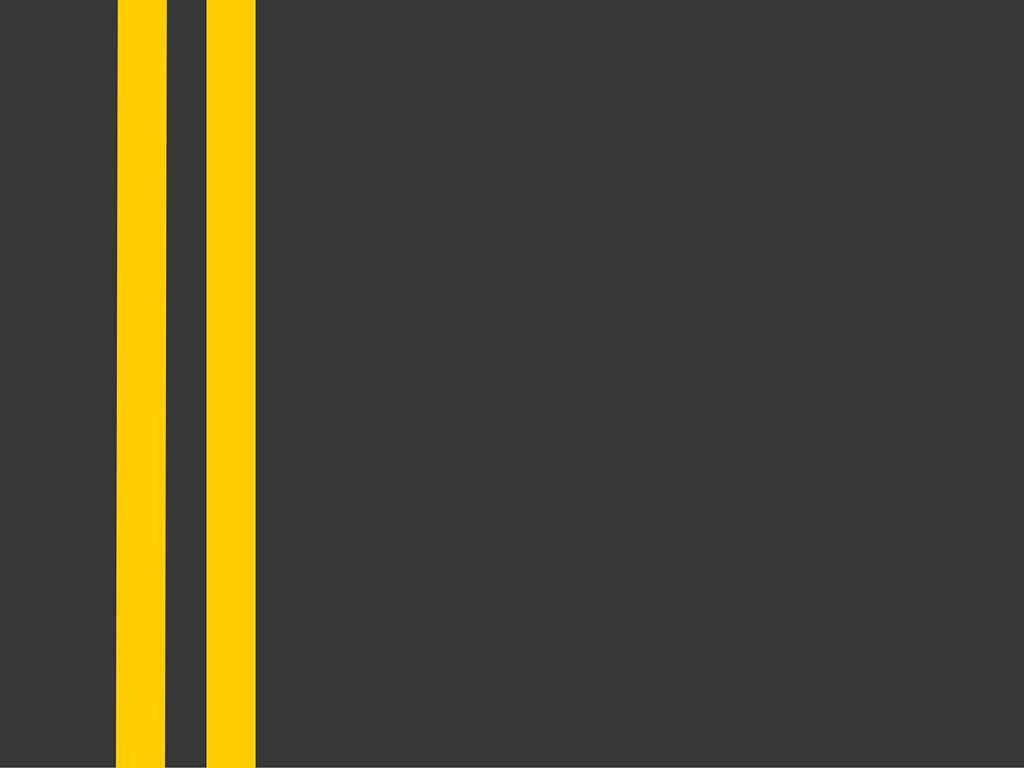
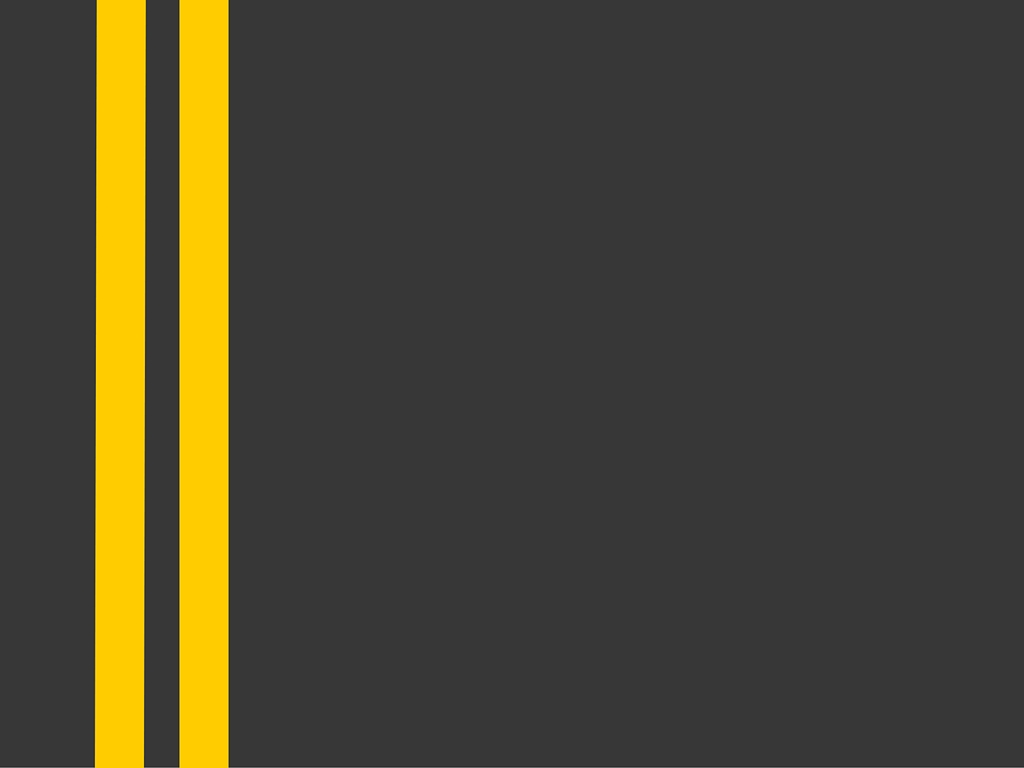
finished map page

Changed region(s): [[0.0938, 0.0, 0.25, 1.0]]

diff --git a/app/views/withMap.html b/app/views/withMap.html
@@ -17,19 +17,8 @@
     <!-- Google Fonts-->
     <link href='https://fonts.googleapis.com/css?family=Satisfy|Oswald' rel='stylesheet' type='text/css'>
 
-    <!-- Custom CSS -->
-    <link href="../css/withMapStyle.css" rel="stylesheet">
-
     <!-- Favicon -->
-    <link rel="shortcut icon" href="../img/favicon.ico" type="image/x-icon" />
-
-
-    <style>
-    body {
-        padding-top: 51px;
-        /* Required padding for .navbar-fixed-top. Remove if using .navbar-static-top. Change if height of navigation changes. */
-    }
-    </style>
+    <link rel="shortcut icon" href="../img/favicon2.png" type="image/x-icon" />
 
     <!-- HTML5 Shim and Respond.js IE8 support of HTML5 elements and media queries -->
     <!-- WARNING: Respond.js doesn't work if you view the page via file:// -->
@@ -41,46 +30,58 @@
 <head>
 
 <body>
+
+    <!-- Custom CSS -->
+    <link href="../css/withMapStyle.css" rel="stylesheet">
+
     <!-- Nav Bar -->
      <nav class="navbar navbar-inverse navbar-fixed-top">
       <div class="container-fluid">
         <div class="navbar-header">
           
-          <a class="navbar-brand title" href="#">Daytripr</a>
+          <a class="navbar-brand title"><img style="max-width:100px; margin-top: -7px;" src="../img/logoWhite.png"></a>
         </div>
       </div>
     </nav>
 
     <!-- Page Content -->
-    <div class="container">
-        <div class="col-lg-3">
-            <div class="col-lg-12 little-space">
-                <p class="subtitle">what do you need?</p>
+    <div class="container no-margin">
+        <div class="row">
+            <div class="col-lg-3">
+                <div class="col-lg-12 little-space">
+                    <p class="text-center title">what do you need?</p>
+                </div>
+                <div class="form-group col-lg-5">
+                    <select class="selectpicker">
+                    <option>Food</option>
+                    <option>Fun</option>
+                    <option>Fotel</option>
+                    </select>                
+                </div>
+                <div class="form-group col-lg-2">
+                    <label class="subtitle">at</label>
+                </div>
+                <div class="form-group col-lg-5">
+                    <input id="time" class="form-control input-group-lg reg_name" type="text" name="stoptime"/>
+                </div>
+                <div class="col-lg-12">
+                    <p class="text-center title">need more?</p>
+                </div>
+                <div class="col-lg-12 text-center">
+                    <button type="button" class="btn btn-default">
+                        <span class="glyphicon glyphicon-chevron-down"></span>
+                    </button>
+                </div>
             </div>
-            <div class="form-group col-lg-5">
-                <input id="location" class="form-control input-group-lg reg_name" type="text" name="pitstop"/>
-            </div>
-            <div class="form-group col-lg-2">
-                <label class="subtitle">at</label>
-            </div>
-            <div class="form-group col-lg-5">
-                <input id="time" class="form-control input-group-lg reg_name" type="text" name="stoptime"/>
-            </div>
-            <div class="col-lg-12">
-                <p class="subtitle">need more?</p>
-                <button type="button" class="btn btn-default">
-                    <span class="glyphicon glyphicon-chevron-down"></span>
-                </button>
-            </div>
-        </div>
         <div class="col-lg-9">
             <!--MAP hooray-->
             <img src="../img/map.jpg" alt="road" height="600" width="900">
         </div>
     </div>
+    </div>
     <!-- /.container -->
     <div class="col-lg-12">
-            <button type="button" class="btn btn-default btn-fixed">let's go!</button>
+            <button type="button" class="btn btn-default btn-fixed btn-yellow">let's go!</button>
      </div>
     <!-- jQuery Version 1.11.1 -->
     <script src="../js/jquery.js"></script>

diff --git a/app/views/index.html b/app/views/index.html
@@ -1,4 +1,3 @@
-
 <!DOCTYPE html>
 <html lang="en">
 
@@ -18,19 +17,8 @@
     <!-- Google Fonts-->
     <link href='https://fonts.googleapis.com/css?family=Satisfy|Oswald' rel='stylesheet' type='text/css'>
 
-    <!-- Custom CSS -->
-    <link href="../css/indexStyle.css" rel="stylesheet">
-
     <!-- Favicon -->
-    <link rel="shortcut icon" href="../img/favicon.ico" type="image/x-icon" />
-
-
-    <style>
-    body {
-        padding-top: 70px;
-        /* Required padding for .navbar-fixed-top. Remove if using .navbar-static-top. Change if height of navigation changes. */
-    }
-    </style>
+    <link rel="shortcut icon" href="../img/favicon2.png" type="image/x-icon" />
 
     <!-- HTML5 Shim and Respond.js IE8 support of HTML5 elements and media queries -->
     <!-- WARNING: Respond.js doesn't work if you view the page via file:// -->
@@ -42,6 +30,9 @@
 <head>
 
 <body>
+    <!-- Custom CSS -->
+    <link href="../css/indexStyle.css" rel="stylesheet">
+
     <!-- Page Content -->
     <div class="container">
 

diff --git a/app/css/withMapStyle.css b/app/css/withMapStyle.css
@@ -1,3 +1,11 @@
+.navbar-brand{
+    padding-left: 50px;
+}
+
+.navbar .navbar-brand {
+    color: white;
+}
+
 .little-space {
     margin-top:25px;
 }
@@ -15,13 +23,20 @@ h1, h2, h3 {
 }
 
 body {
+    padding-top: 51px;
     font-family: 'Satisfy', cursive;
-    background-color:#383838;
+    background: #383838;
     color: white;
+}
+
+.no-margin {
+    margin: 0;
+
 }
 
 .title {
     font-family: 'Oswald', sans-serif;
+    font-size: 22px;
 }
 
 .subtitle {
@@ -36,5 +51,10 @@ h1 {
     font-size: 24px;
     position: fixed; 
     bottom: 100px;
-    left: 140px;
+    left: 95px;
+}
+
+.btn-yellow:hover{
+    transition: background-color .7s ease;
+    background-color: #ffcc00; 
 }

diff --git a/app/css/indexStyle.css b/app/css/indexStyle.css
@@ -16,6 +16,7 @@ h1, h2, h3 {
 }
 
 body {
+    padding-top: 70px;
     font-family: 'Satisfy', cursive;
     background: url("../img/asphalt.jpg") no-repeat center center fixed;
     -webkit-background-size: cover;
@@ -25,11 +26,18 @@ body {
     color: white;
 }
 
+.center {
+    margin: 0 auto;
+}
 
 .subtitle {
-    font-size: 24px;
+    font-size: 28px;
 }
 
 h1 {
-    font-size: 56px;
+    font-size: 96px;
+}
+
+h3 {
+    font-size: 28px;
 }
